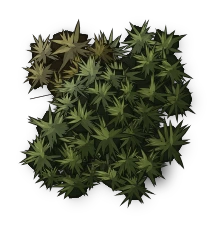
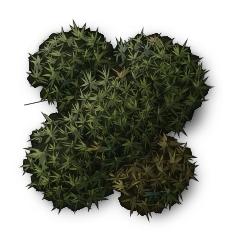
forest canopies are dense inked foliage masses with small leaves

diff --git a/src/procedural/pesados/plantas.ts b/src/procedural/pesados/plantas.ts
@@ -95,8 +95,8 @@ const FRIO: Tons = { fundo: '#141d12', base: '#2b3d26', meio: '#3b5232', luz: '#
  * Um cacho de folhas finas visto de cima (a unidade da copa de mata): fundo escuro em estrela com nanquim e sombra, duas voltas de folhas
  * estreitas que saem do centro, do escuro (atrás) ao claro (na frente e virado para a luz), e pontas acesas no lado da luz.
  */
-function cacho(partes: Parte[], r: () => number, x: number, y: number, raio: number, tons: Tons, z: number, lado: number): void {
-  const n = 24 + Math.floor(r() * 12), luz = Math.atan2(LUZ_Y, LUZ_X), t = tonsComLuz(tons, Math.max(-0.42, Math.min(0.3, lado * 0.2))), o = { contorno: false as const, semSombra: true, suave: true };
+function cacho(partes: Parte[], r: () => number, x: number, y: number, raio: number, tons: Tons, z: number, lado: number, folhasBase = 24): void {
+  const n = folhasBase + Math.floor(r() * folhasBase * 0.5), luz = Math.atan2(LUZ_Y, LUZ_X), t = tonsComLuz(tons, Math.max(-0.42, Math.min(0.3, lado * 0.2))), o = { contorno: false as const, semSombra: true, suave: true };
   // A base do cacho (só sombra projetada e um miolo escuro, sem traço).
   partes.push(poli(bolha(x, y, raio * 0.62, raio * 0.62, 10, 0.25, r), t.fundo, z, { contorno: false, sombraLeve: true, detalhe: 1 }));
   const folhas: { a: number; len: number; w: number; bx: number; by: number }[] = [];
@@ -122,7 +122,7 @@ function cacho(partes: Parte[], r: () => number, x: number, y: number, raio: num
  */
 function copaDeRaminhos(diametro: number, seed: number, { ralo = 0.2, tons = OLIVA }: { ralo?: number; tons?: Tons } = {}): DescricaoDePiso {
   // `R` é o raio de arrumação: as folhas dos cachos da borda passam dele, e tudo tem de caber na pegada.
-  const r = mulberry32(seed), R = diametro / 2 - Math.min(0.85, 0.42 + diametro * 0.03) * 1.15, partes: Parte[] = [];
+  const r = mulberry32(seed), R = diametro / 2 - 0.36, partes: Parte[] = [];
   // Galhos: do tronco para fora, com bifurcações; ficam sob os cachos e aparecem nos vãos.
   const galhos = 5 + Math.floor(r() * 3);
   for (let i = 0; i < galhos; i++) {
@@ -139,21 +139,31 @@ function copaDeRaminhos(diametro: number, seed: number, { ralo = 0.2, tons = OLI
   const giro = r() * Math.PI * 2;
   for (let i = 0; i < nAnel; i++) { const a = giro + (i / nAnel) * Math.PI * 2 + (r() - 0.5) * 0.5, rm = R * (0.36 + r() * 0.16), d = R - rm * (0.95 + r() * 0.1); massas.push({ x: Math.cos(a) * d, y: Math.sin(a) * d, r: rm, z: 2 + r() * 0.3 }); }
   massas.push({ x: (r() - 0.5) * R * 0.2, y: (r() - 0.5) * R * 0.2, r: R * (0.42 + r() * 0.1), z: 2.6 });
-  const tamanho = Math.min(0.85, 0.42 + R * 0.06), variantes = [tons, tons, tons, tons, tons, AMARELADO, FRIO];
+  const miudo = 0.24, variantes = [tons, tons, tons, tons, tons, AMARELADO, FRIO];
   for (const m of massas.sort((a, b) => a.z - b.z)) {
     const ladoDaMassa = (m.x * LUZ_X + m.y * LUZ_Y) / R, tonsDaMassa = r() < 0.18 ? variantes[5 + Math.floor(r() * 2)]! : tons;
-    partes.push(poli(bolha(m.x, m.y, m.r * 0.74, m.r * 0.74, 14, 0.2, r), tonsDaMassa.fundo, m.z, { contorno: false, detalhe: 1 }));
+    // Silhueta da massa: contorno recortado em pontas de folha, com nanquim firme e a sombra da massa sobre o que está embaixo.
+    const nPontas = Math.round(m.r * 42), fase = r() * 6, silhueta: number[] = [];
+    for (let i = 0; i < nPontas; i++) {
+      const a = (i / nPontas) * Math.PI * 2, lobo = 0.06 * Math.sin(a * 5 + fase) + 0.04 * Math.sin(a * 11 + fase * 2), rr = m.r * (0.92 + lobo + (i % 2 ? -0.07 - r() * 0.05 : r() * 0.04));
+      silhueta.push(m.x + Math.cos(a) * rr, m.y + Math.sin(a) * rr);
+    }
+    partes.push(poli(silhueta, tonsDaMassa.fundo, m.z, { detalhe: 1 }));
+    // Por dentro, cachos miúdos e apertados (folhas de 10 a 30 cm), sem deixar ver o chão.
     const cachos: { x: number; y: number; r: number; d: number }[] = [];
-    for (let tent = 0; tent < 900 && cachos.length < 160; tent++) {
-      const a = r() * Math.PI * 2, d = Math.sqrt(r()) * m.r, x = m.x + Math.cos(a) * d, y = m.y + Math.sin(a) * d, rr = tamanho * (0.7 + r() * 0.5) * (1 - 0.3 * (d / m.r));
-      if (cachos.some(c => Math.hypot(c.x - x, c.y - y) < (c.r + rr) * (0.4 + ralo * 0.45))) continue;
+    for (let tent = 0; tent < 9000 && cachos.length < 1100; tent++) {
+      const a = r() * Math.PI * 2, d = Math.sqrt(r()) * m.r * 0.9, x = m.x + Math.cos(a) * d, y = m.y + Math.sin(a) * d, rr = miudo * (0.75 + r() * 0.5);
+      if (cachos.some(c => Math.hypot(c.x - x, c.y - y) < (c.r + rr) * (0.3 + ralo * 0.4))) continue;
       cachos.push({ x, y, r: rr, d: d / m.r });
     }
     for (const c of cachos.sort((a, b) => b.d - a.d)) {
       // Luz na massa: o lado noroeste de cada cúpula clareia, o sudeste escurece; o miolo de cada massa é a parte mais alta.
       const local = ((c.x - m.x) * LUZ_X + (c.y - m.y) * LUZ_Y) / m.r, t = r() < 0.12 ? variantes[Math.floor(r() * variantes.length)]! : tonsDaMassa;
-      cacho(partes, r, c.x, c.y, c.r, t, m.z + 0.02 + (1 - c.d) * 0.08, local * 0.95 + ladoDaMassa * 0.4 - (c.d > 0.8 && local < 0 ? 0.5 : 0));
+      cacho(partes, r, c.x, c.y, c.r, t, m.z + 0.02 + (1 - c.d) * 0.08, local * 1.1 + ladoDaMassa * 0.35 - (c.d > 0.75 && local < 0 ? 0.6 : 0), 14);
     }
+    // Volume: um véu claro no lado da luz e um escuro no lado oposto, macios, dentro da massa.
+    partes.push(poli(bolha(m.x + LUZ_X * m.r * 0.3, m.y + LUZ_Y * m.r * 0.3, m.r * 0.45, m.r * 0.4, 12, 0.2, r), tonsDaMassa.brilho, m.z + 0.12, { contorno: false, semSombra: true, suave: true, alfa: 0.16, desfoque: m.r * 0.25 }));
+    partes.push(poli(bolha(m.x - LUZ_X * m.r * 0.38, m.y - LUZ_Y * m.r * 0.38, m.r * 0.5, m.r * 0.42, 12, 0.2, r), '#050804', m.z + 0.12, { contorno: false, semSombra: true, suave: true, alfa: 0.32, desfoque: m.r * 0.25 }));
   }
   return { tipo: 'piso', pegada: [diametro, diametro], partes };
 }
@@ -263,7 +273,7 @@ export const PLANTAS: GeradorPesado[] = [
     gerar: p => arbustoSeco(num(p.params.diametro, 1.5, 0.8, 4), p.seed, p.params.neve === true) },
   { id: 'carvalho-grande', altura: ([w]) => w * 1.6, nome: 'Carvalho grande', categoria: 'exterior', funcoes: ['jardim'], tags: ['arvore', 'carvalho', 'planta', 'copa', 'exterior', 'mata'], generos: [], kit: 'mata', versao: 2, res: 64,
     variantes: [{ nome: '6 m', sufixo: '6m', params: { diametro: 6 }, seed: 91 }, { nome: '7 m', sufixo: '7m', params: { diametro: 7 }, seed: 92 }, { nome: '8 m', sufixo: '8m', params: { diametro: 8 }, seed: 93 }], gerar: p => carvalhoGrande(num(p.params.diametro, 7, 5, 10), p.seed) },
-  { id: 'arvore-da-mata', altura: ([w]) => w * 1.7, nome: 'Árvore da mata', categoria: 'exterior', funcoes: ['jardim'], tags: ['arvore', 'planta', 'copa', 'exterior', 'mata', 'floresta'], generos: [], kit: 'mata', versao: 1, res: 64,
+  { id: 'arvore-da-mata', altura: ([w]) => w * 1.7, nome: 'Árvore da mata', categoria: 'exterior', funcoes: ['jardim'], tags: ['arvore', 'planta', 'copa', 'exterior', 'mata', 'floresta'], generos: [], kit: 'mata', versao: 2, res: 64,
     variantes: [{ nome: '4 m', sufixo: '4m', params: { diametro: 4 }, seed: 111 }, { nome: '6 m', sufixo: '6m', params: { diametro: 6 }, seed: 112 }, { nome: '8 m', sufixo: '8m', params: { diametro: 8 }, seed: 113 }, { nome: '6 m, ralinha', sufixo: '6m-rala', params: { diametro: 6, ralo: 0.7 }, seed: 114 }, { nome: '5 m, amarelada', sufixo: '5m-amarelada', params: { diametro: 5, tons: 'amarelado' }, seed: 115 }],
     gerar: p => copaDeRaminhos(num(p.params.diametro, 6, 2, 12), p.seed, { ralo: num(p.params.ralo, 0.2, 0, 1), tons: p.params.tons === 'amarelado' ? AMARELADO : p.params.tons === 'frio' ? FRIO : OLIVA }) },
   { id: 'folhagem-tropical', altura: ([w]) => w * 0.5, nome: 'Folhagem tropical', categoria: 'exterior', funcoes: ['jardim'], tags: ['arbusto', 'planta', 'folhagem', 'tropical', 'exterior', 'mata'], generos: [], kit: 'mata', versao: 1, res: 64,
